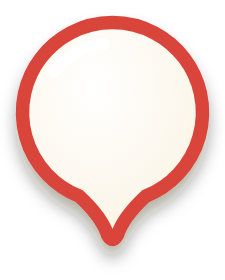
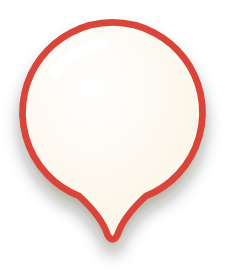
bản 255: khung bong bóng (xanh, đỏ) viền 0,75 (trước 1,5), vẽ lại bằng tools/bong/lam.py
Claude-Session: https://claude.ai/code/session_015r7QjvgWpavV7UHFjkKbAg

Changed region(s): [[0.0622, 0.0571, 0.9333, 0.8857]]

diff --git a/src/tools/bong/lam.py b/src/tools/bong/lam.py
@@ -4,11 +4,11 @@ import os
 from playwright.sync_api import sync_playwright
 OUT=os.path.join(os.path.dirname(os.path.abspath(__file__)),'..','..','godot','ui','img','bong')
 PATH='M3.7 9.29 A10 10 0 1 0 -3.7 9.29 Q-1.2 11.6 -0.55 13.6 Q0 14.6 0.55 13.6 Q1.2 11.6 3.7 9.29 Z'
-def khung(col):   # tròn r10 + đuôi tới y 14,6, viền 1,5, nền kem, bóng đổ; khung -12,5..12,5 x -12,5..18,61
+def khung(col):   # tròn r10 + đuôi tới y 14,6, viền 0,75 (bản 255; trước 1,5), nền kem, bóng đổ; khung -12,5..12,5 x -12,5..18,61
     return f'''<svg xmlns="http://www.w3.org/2000/svg" viewBox="-12.5 -12.5 25 31.1111" width="225" height="280">
 <defs><radialGradient id="g" cx="40%" cy="30%" r="80%"><stop offset="0" stop-color="#ffffff"/><stop offset="1" stop-color="#fbf3e2"/></radialGradient>
 <filter id="s" x="-50%" y="-50%" width="200%" height="200%"><feDropShadow dx="0" dy="1.3" stdDeviation="0.9" flood-color="#1a1408" flood-opacity="0.35"/></filter></defs>
-<path d="{PATH}" fill="url(#g)" stroke="{col}" stroke-width="1.5" stroke-linejoin="round" filter="url(#s)"/>
+<path d="{PATH}" fill="url(#g)" stroke="{col}" stroke-width=".75" stroke-linejoin="round" filter="url(#s)"/>
 <path d="M-6.5 -4.5 A7.8 7.8 0 0 1 -1 -7.6" fill="none" stroke="#ffffff" stroke-width="1.3" stroke-linecap="round" opacity=".9"/></svg>'''
 def vong():   # vòng ô chín: elip 21 x 10,5 nét 2,2 vàng tươi + quầng sáng mềm; khung -24..24 x -13..13 đơn vị
     return '''<svg xmlns="http://www.w3.org/2000/svg" viewBox="-24 -13 48 26" width="432" height="234">
